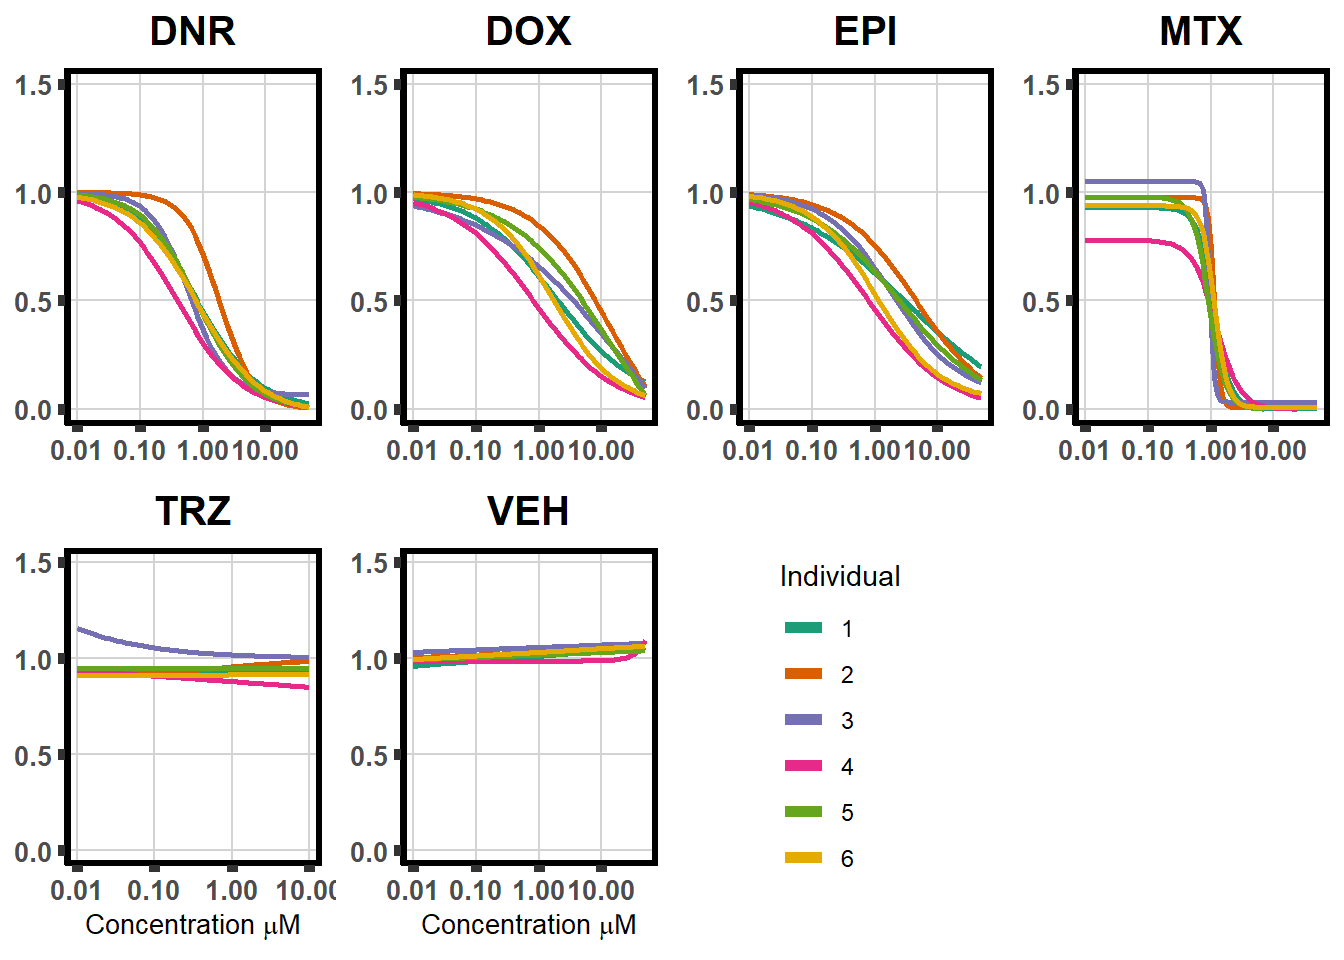
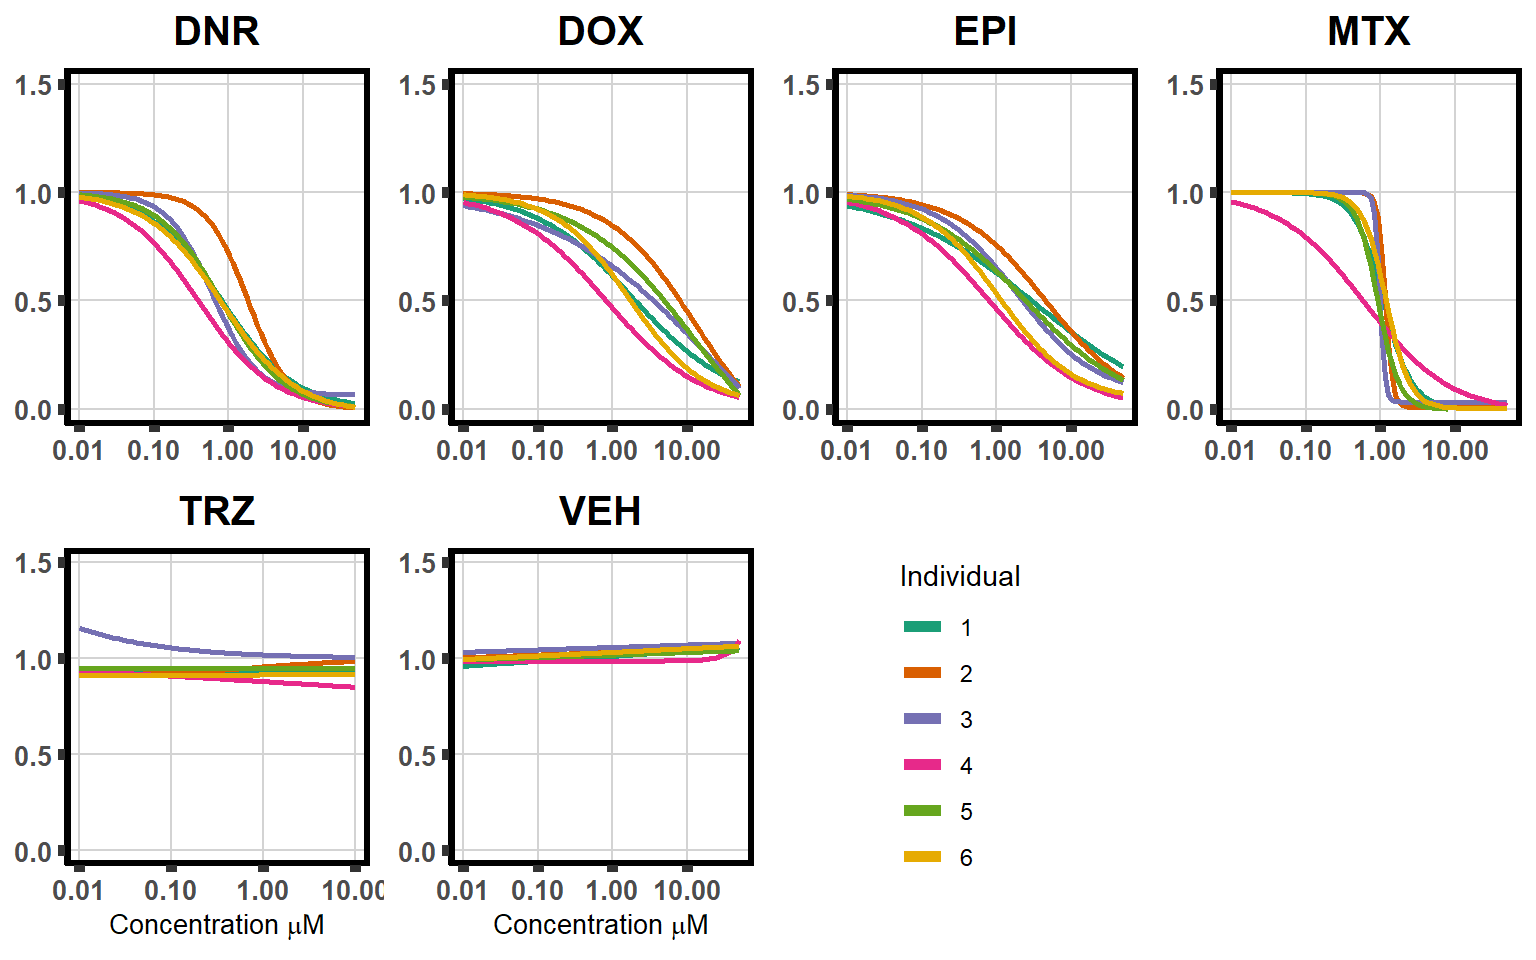
Build site.

diff --git a/docs/Figure1.html b/docs/Figure1.html
@@ -11,7 +11,7 @@
 
 <meta name="author" content="ERM" />
 
-<meta name="date" content="2023-07-14" />
+<meta name="date" content="2023-07-18" />
 
 <title>Figure 1</title>
 
@@ -361,7 +361,7 @@ div.tocify {
 
 <h1 class="title toc-ignore">Figure 1</h1>
 <h4 class="author">ERM</h4>
-<h4 class="date">2023-07-14</h4>
+<h4 class="date">2023-07-18</h4>
 
 </div>
 
@@ -390,7 +390,7 @@ class="glyphicon glyphicon-ok text-success" aria-hidden="true"></span>
 <div class="tab-content">
 <div id="summary" class="tab-pane fade in active">
 <p>
-<strong>Last updated:</strong> 2023-07-14
+<strong>Last updated:</strong> 2023-07-18
 </p>
 <p>
 <strong>Checks:</strong> <span
@@ -521,15 +521,15 @@ project makes it easier to run your code on other machines.</p>
 <div class="panel panel-default">
 <div class="panel-heading">
 <p class="panel-title">
-<a data-toggle="collapse" data-parent="#workflowr-checks" href="#strongRepositoryversionstrongahrefhttpsgithubcomreneeisnowhereCardiotoxicitytreebb3a004b74a8750fa6ad0433654a93de0982ae99targetblankbb3a004a">
+<a data-toggle="collapse" data-parent="#workflowr-checks" href="#strongRepositoryversionstrongahrefhttpsgithubcomreneeisnowhereCardiotoxicitytreeeff7550bb723ab8825350735962c5236b509f15btargetblankeff7550a">
 <span class="glyphicon glyphicon-ok text-success"
 aria-hidden="true"></span> <strong>Repository version:</strong>
-<a href="https://github.com/reneeisnowhere/Cardiotoxicity/tree/bb3a004b74a8750fa6ad0433654a93de0982ae99" target="_blank">bb3a004</a>
+<a href="https://github.com/reneeisnowhere/Cardiotoxicity/tree/eff7550bb723ab8825350735962c5236b509f15b" target="_blank">eff7550</a>
 </a>
 </p>
 </div>
 <div
[2 lines of base64/hex data omitted]
 class="panel-collapse collapse">
 <div class="panel-body">
 <p>
@@ -539,7 +539,7 @@ reproducibility.
 </p>
 <p>
 The results in this page were generated with repository version
-<a href="https://github.com/reneeisnowhere/Cardiotoxicity/tree/bb3a004b74a8750fa6ad0433654a93de0982ae99" target="_blank">bb3a004</a>.
+<a href="https://github.com/reneeisnowhere/Cardiotoxicity/tree/eff7550bb723ab8825350735962c5236b509f15b" target="_blank">eff7550</a>.
 See the <em>Past versions</em> tab to see a history of the changes made
 to the R Markdown and HTML files.
 </p>
@@ -657,6 +657,8 @@ Ignored files:
     Ignored:    data/individual_LDH48.RDS
     Ignored:    data/indv_noveh1.csv
     Ignored:    data/kegglistDEG.RDS
+    Ignored:    data/kegglistDEG24.RDS
+    Ignored:    data/kegglistDEG3.RDS
     Ignored:    data/knowfig4.csv
     Ignored:    data/knowfig5.csv
     Ignored:    data/label_list.RDS
@@ -712,7 +714,6 @@ Untracked files:
     Untracked:  analysis/enricher.Rmd
     Untracked:  analysis/export_to_excel.R
     Untracked:  analysis/untitled1.R
-    Untracked:  analysis/variance_scrip.Rmd
     Untracked:  code/DRC_plotfigure1.png
     Untracked:  code/constantcode.R
     Untracked:  code/cpm_boxplot.R
@@ -724,6 +725,7 @@ Untracked files:
     Untracked:  code/pearson_tox_extract.R
     Untracked:  code/plot1C.fun.R
     Untracked:  code/spearman_extract_func.R
+    Untracked:  code/venndiagramcolor_control.R
     Untracked:  cormotif_probability_genelist.csv
     Untracked:  individual-legenddark2.png
     Untracked:  installed_old.rda
@@ -754,9 +756,9 @@ Untracked files:
 Unstaged changes:
     Modified:   analysis/DEG-GO_analysis.Rmd
     Modified:   analysis/DRC_analysis.Rmd
+    Modified:   analysis/Figure2.Rmd
     Modified:   analysis/Figure5.Rmd
     Modified:   analysis/Figure8.Rmd
-    Modified:   analysis/Figure9.Rmd
     Modified:   analysis/GOI_plots.Rmd
     Modified:   analysis/Knowles2019.Rmd
     Modified:   analysis/Supplementary_figures.Rmd
@@ -825,6 +827,40 @@ Message
 </tr>
 </thead>
 <tbody>
+<tr>
+<td>
+Rmd
+</td>
+<td>
+<a href="https://github.com/reneeisnowhere/Cardiotoxicity/blob/eff7550bb723ab8825350735962c5236b509f15b/analysis/Figure1.Rmd" target="_blank">eff7550</a>
+</td>
+<td>
+reneeisnowhere
+</td>
+<td>
+2023-07-18
+</td>
+<td>
+update to MTX
+</td>
+</tr>
+<tr>
+<td>
+html
+</td>
+<td>
+<a href="https://rawcdn.githack.com/reneeisnowhere/Cardiotoxicity/9dd118a65edaaf0bb6346d06b37280bb3c06b902/docs/Figure1.html" target="_blank">9dd118a</a>
+</td>
+<td>
+reneeisnowhere
+</td>
+<td>
+2023-07-14
+</td>
+<td>
+Build site.
+</td>
+</tr>
 <tr>
 <td>
 Rmd
@@ -1172,7 +1208,7 @@ veplot&lt;- readRDS(&quot;output/veplot.RDS&quot;)
 legend_b &lt;- readRDS(&quot;output/legend_b.RDS&quot;)
 plan2 &lt;-  cowplot::plot_grid(daplot,dxplot,epplot,mtplot, trplot,veplot, legend_b,ncol =4)
 print(plan2)</code></pre>
-<p><img src="figure/Figure1.Rmd/B%20drc-1.png" width="672" style="display: block; margin: auto;" />
+<p><img src="figure/Figure1.Rmd/B%20drc-1.png" width="768" style="display: block; margin: auto;" />
 Lines are a log-logistic regression of the mean from quadruplicates at 8
 separate concentrations for each condition, except (trastuzmab)TRZ,
 which is 7 concentrations.</p>
@@ -1188,7 +1224,7 @@ Heatmap_sig &lt;- readRDS(&quot;data/Heatmap_sig.RDS&quot;)
 col_funld &lt;- circlize::colorRamp2(c(0, 1), c(&quot;white&quot;, &quot;darkblue&quot;))
 Heatmap(Heatmap_mat,
         column_title = &quot;Pearson correlation of LD50s between treatments&quot;,
-        name = &quot;(p value)&quot;,
+        name = &quot;rho value&quot;,
         cluster_rows = FALSE, 
         cluster_columns = FALSE,
         column_names_rot = 0,
@@ -1224,7 +1260,9 @@ graphLD50 &lt;-
   xlab(&quot;Treatment&quot;)+
   geom_signif(comparisons =list(c(&quot;DOX&quot;,&quot;EPI&quot;),
                                 c (&quot;DOX&quot;,&quot;DNR&quot;),
-                                c(&quot;DOX&quot;,&quot;MTX&quot;)),
+                                c (&quot;EPI&quot;,&quot;MTX&quot;),
+                                c(&quot;DOX&quot;,&quot;MTX&quot;),
+                                c(&quot;DNR&quot;,&quot;MTX&quot;)),
              test=&quot;t.test&quot;,
              map_signif_level=TRUE,
              textsize =4,
